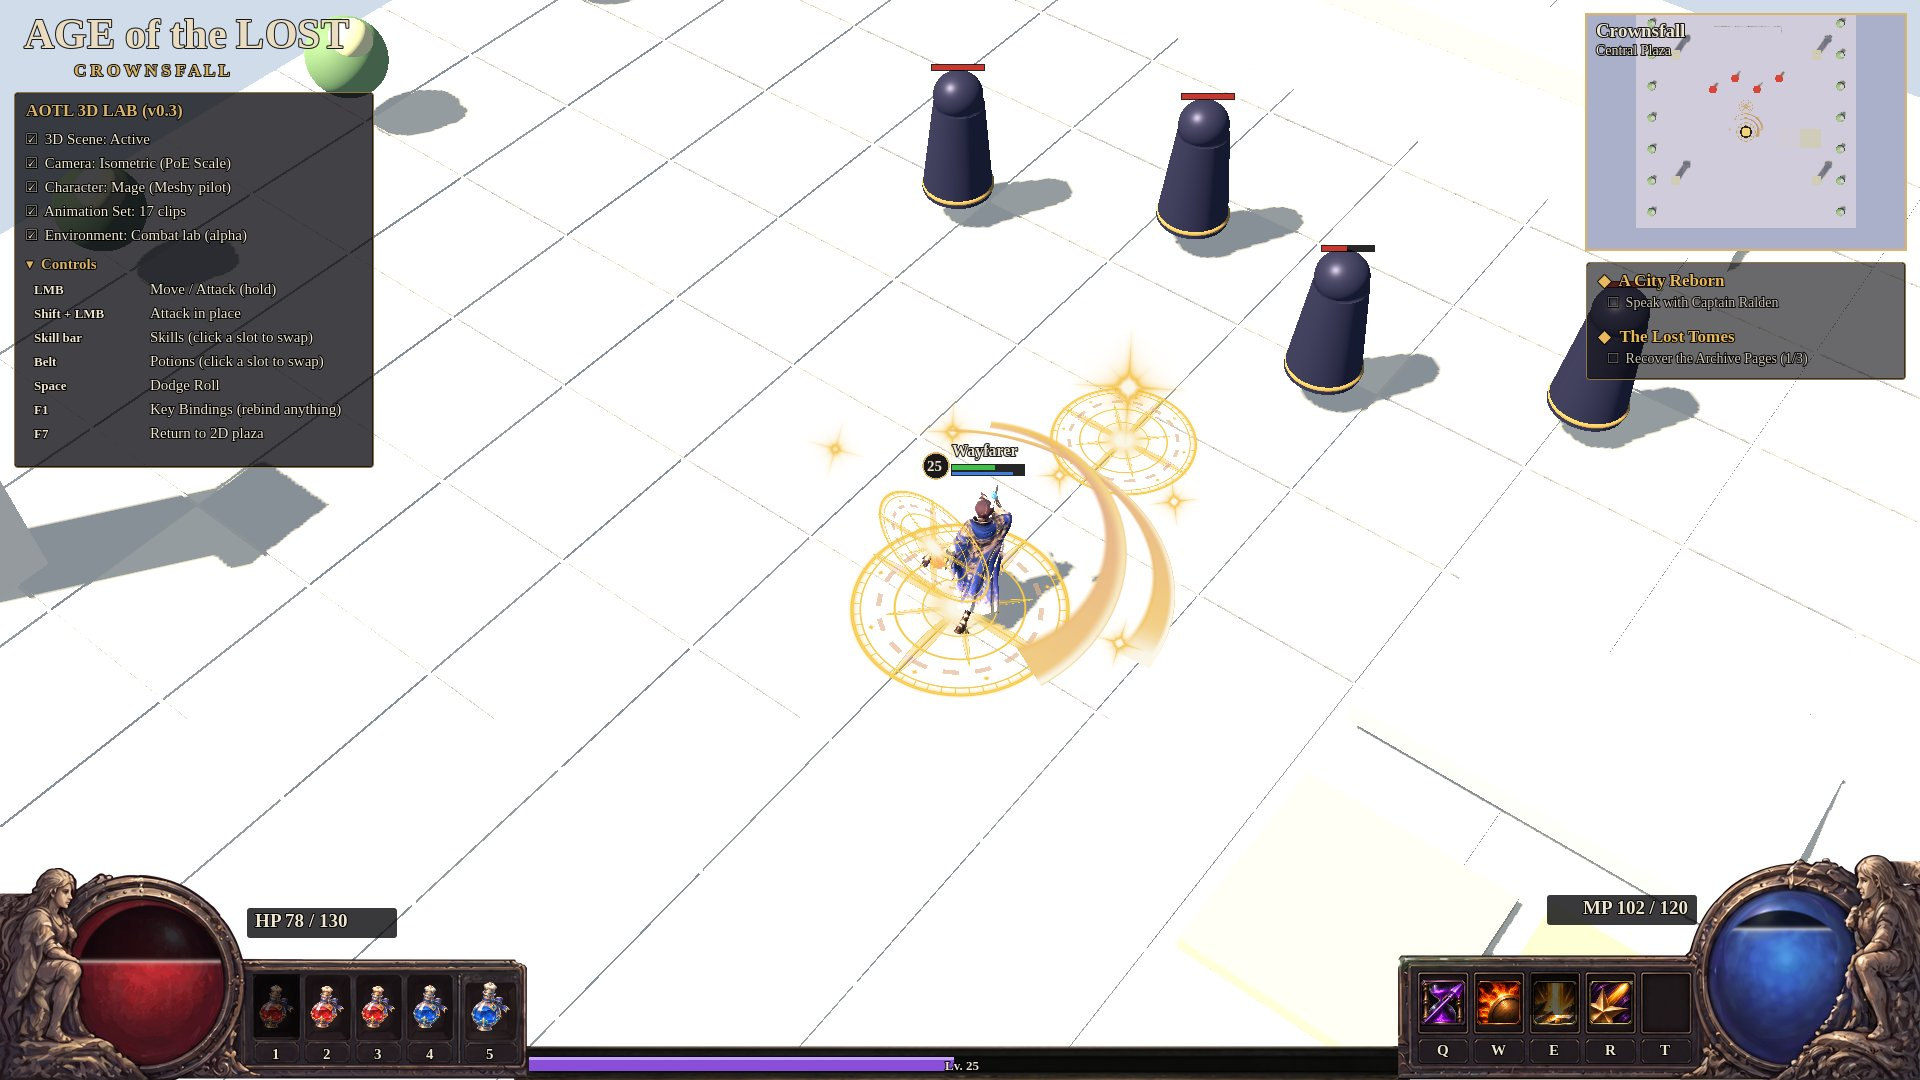
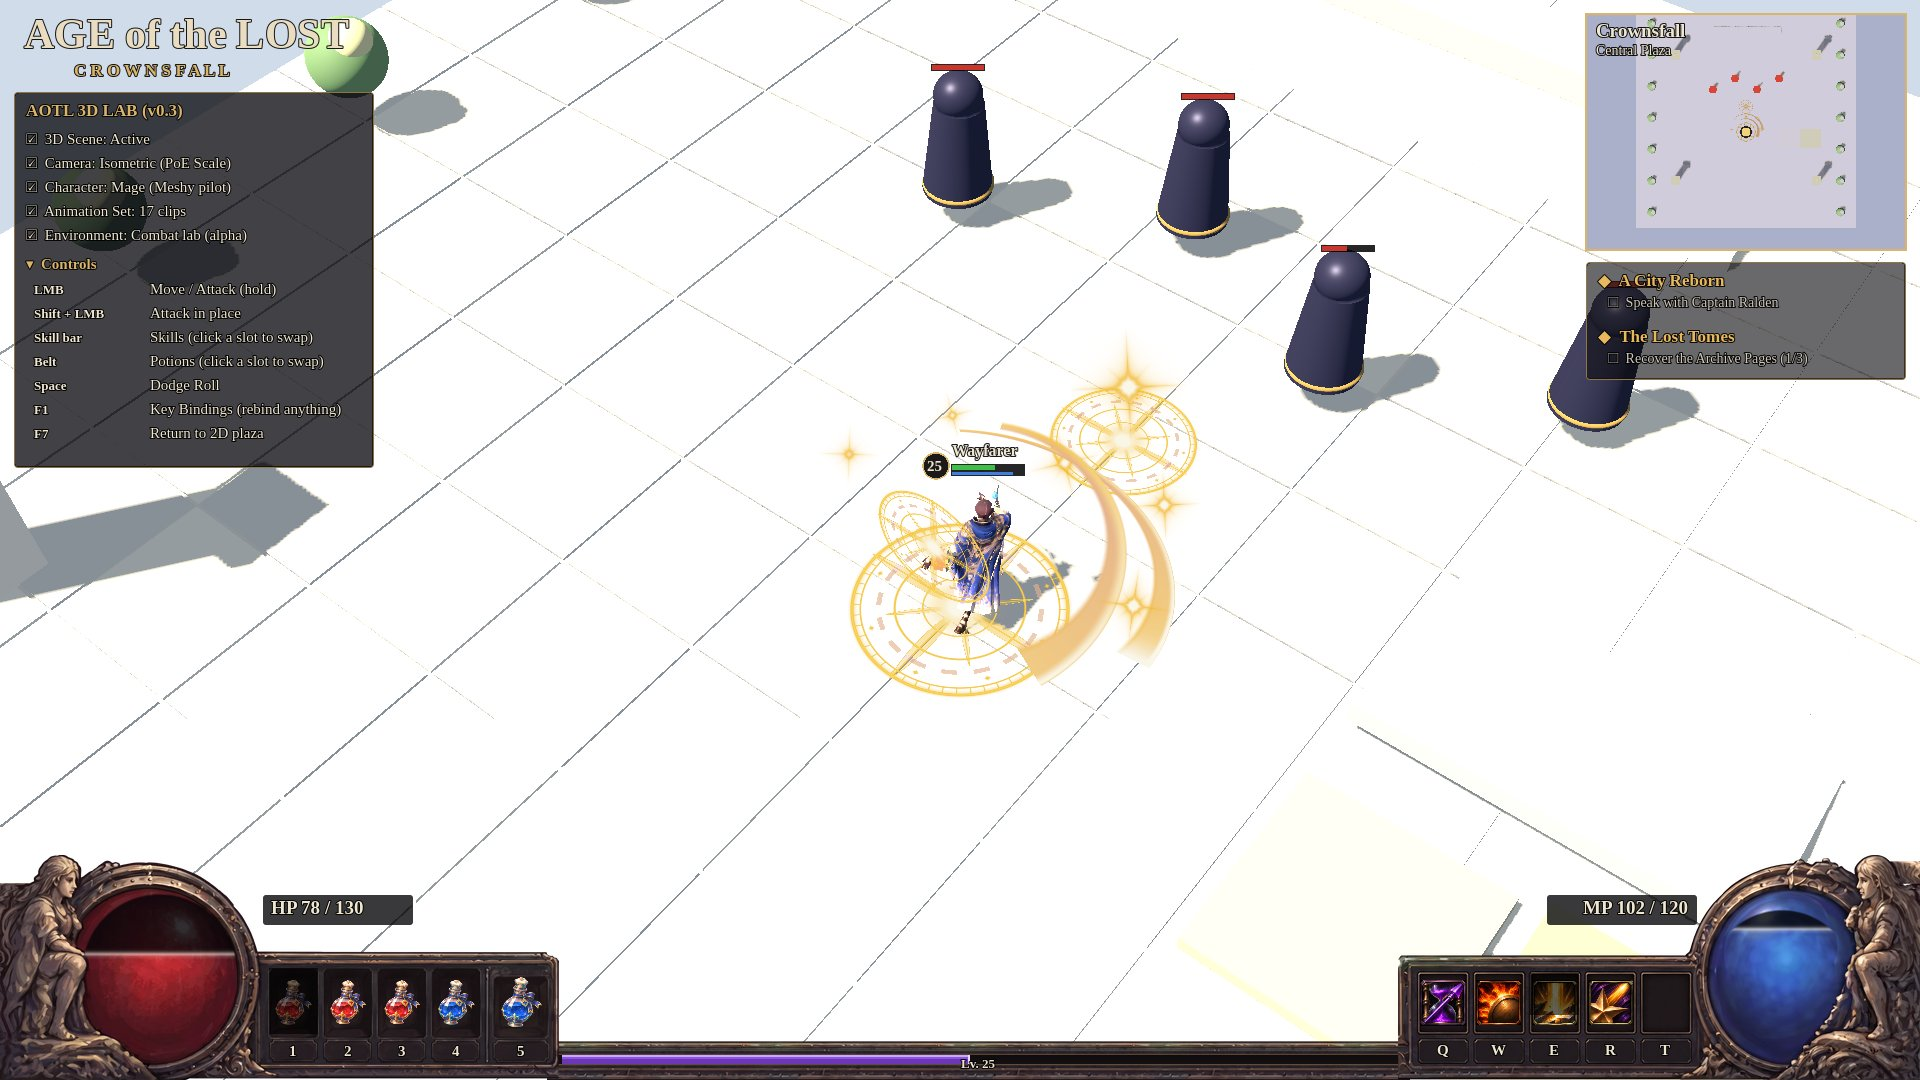
ARPG HUD: matched corner heights (own art each side), panel-material XP frame
Owner feedback: the HP cluster stood shorter than the MP cluster and the
XP bar lacked texture/framing. The left art (its own design, not a
mirror) is scaled so both corners stand 225 px at 1080p; the XP frame is
tiled from the skill panel's own bronze/stone borders around a bevelled
groove with a gradient fill. Green fringe removed. Tests: arpg_hud 73/73,
regression 994/994.

Claude-Session: https://claude.ai/code/session_01HXUneWBipxvB69FSMXEcEC

diff --git a/game/crownsfall_lootslice/tools/build_hud_extras.py b/game/crownsfall_lootslice/tools/build_hud_extras.py
@@ -1,0 +1,82 @@
+"""Post-process the keyed HUD redraw (run after key_hud_redraw.py) - free, local:
+
+1. Despill: remove the faint chroma-green fringe left on the right piece's edges.
+2. XP frame: a seamless, horizontally tileable strip built from the skill panel's own top and bottom bronze-and-stone
+   borders with a recessed groove between them, so the XP bar is framed in the same material as the panels.
+Updates hud_redraw.json in place.
+"""
+import json, sys
+import numpy as np
+import cv2
+from PIL import Image
+
+D = sys.argv[1]
+meta = json.load(open(f"{D}/hud_redraw.json"))
+R = meta["right"]
+
+def despill(a):
+    rgb = a[..., :3].astype(np.float32)
+    m = np.maximum(rgb[..., 0], rgb[..., 2])
+    rgb[..., 1] = np.minimum(rgb[..., 1], m * 1.04 + 2)
+    a[..., :3] = np.clip(rgb, 0, 255).astype(np.uint8)
+    return a
+
+def recolor_red(a, cx, cy, r):
+    """blue glass -> deep red glass inside the disc; low-saturation highlights and the statue stay as they are."""
+    h, w = a.shape[:2]
+    yy, xx = np.mgrid[0:h, 0:w]
+    inside = (xx - cx) ** 2 + (yy - cy) ** 2 <= (r * 1.04) ** 2
+    hsv = cv2.cvtColor(a[..., :3], cv2.COLOR_RGB2HSV).astype(np.float32)
+    blue = inside & (hsv[..., 0] > 88) & (hsv[..., 0] < 140) & (hsv[..., 1] > 55)
+    soft = cv2.GaussianBlur(blue.astype(np.float32), (0, 0), 1.2)
+    out = hsv.copy()
+    out[..., 0] = 178                                   # deep crimson
+    out[..., 1] = np.clip(hsv[..., 1] * 1.02, 0, 255)
+    out[..., 2] = np.clip(hsv[..., 2] * 0.86, 0, 255)
+    red = cv2.cvtColor(out.astype(np.uint8), cv2.COLOR_HSV2RGB).astype(np.float32)
+    rgb = a[..., :3].astype(np.float32)
+    a[..., :3] = np.clip(rgb * (1 - soft[..., None]) + red * soft[..., None], 0, 255).astype(np.uint8)
+    return a
+
+def rect_mirror(v, W):
+    return [round(W - v[0] - v[2], 2), v[1], v[2], v[3]]
+
+for side in ("left", "right"):
+    for suffix in ("", "@2x"):
+        a = np.array(Image.open(f"{D}/hud_{side}_hd{suffix}.png").convert("RGBA"))
+        Image.fromarray(despill(a)).save(f"{D}/hud_{side}_hd{suffix}.png")
+
+# ---- XP frame from the panel's borders (2x source rows, measured on hud_right_hd@2x.png) ----
+src = np.array(Image.open(f"{D}/hud_right_hd@2x.png").convert("RGBA")).astype(np.float32)
+x0, x1 = 150, 590                                  # the panel border's run between its corners (no globe, no wells)
+top = src[200:220, x0:x1]                          # outer rim + inner bronze line
+stone = src[226:232, x0:x1]                        # plain panel stone
+bot = src[422:446, x0:x1]                          # inner line + rim + bottom edge
+gw = x1 - x0
+groove_h = 22
+g = np.zeros((groove_h, gw, 4), np.float32)
+bronze = np.array([150, 112, 78, 255], np.float32)
+dark = np.array([20, 16, 18, 255], np.float32)
+for y in range(groove_h):
+    t = y / (groove_h - 1)
+    g[y] = dark * (0.75 + 0.35 * t)                # recessed: darker at the top (inner shadow)
+    g[y, :, 3] = 255
+g[0] = bronze * 0.85; g[0, :, 3] = 255             # thin bronze bevel lines, like the key plates
+g[1] = bronze * 0.45; g[1, :, 3] = 255
+g[-1] = bronze * 0.95; g[-1, :, 3] = 255
+g[-2] = bronze * 0.5; g[-2, :, 3] = 255
+tile = np.concatenate([top, stone, g, stone, bot], axis=0)
+# seamless: cross-fade the last 40 px into the first 40 px
+f = 50
+ramp = np.linspace(0, 1, f)[None, :, None]
+tile[:, :f] = tile[:, :f] * ramp + tile[:, -f:] * (1 - ramp)
+tile = tile[:, : gw - f]
+tile2 = np.clip(tile, 0, 255).astype(np.uint8)
+Image.fromarray(tile2).save(f"{D}/hud_xp_frame@2x.png")
+h2, w2 = tile2.shape[:2]
+Image.fromarray(tile2).resize((w2 // 2, h2 // 2), Image.LANCZOS).save(f"{D}/hud_xp_frame.png")
+gy = top.shape[0] + stone.shape[0]
+meta["xp_frame"] = {"file": "hud_xp_frame.png", "size": [w2 // 2, h2 // 2],
+                    "groove": [0, (gy + 2) / 2.0, w2 // 2, (groove_h - 4) / 2.0]}
+json.dump(meta, open(f"{D}/hud_redraw.json", "w"), indent=1)
+print("xp frame", meta["xp_frame"])

diff --git a/game/crownsfall_lootslice/tools/key_hud_redraw.py b/game/crownsfall_lootslice/tools/key_hud_redraw.py
@@ -41,7 +41,9 @@ def disc(rgba, hue_ok):
 PV = 1600 / 6336          # preview thumbnail scale used for the hand measurements
 DISC_1080 = 74.0
 LAYOUT = {   # preview px: disc (cx, cy, r), wells [x0,x1] with shared y, plates y
-    "left":  {"src": "a1_left_raw.png", "disc": (465, 345, 215), "wells": [(765, 900), (915, 1048), (1063, 1196), (1212, 1346), (1380, 1530)],
+    # the left art is composed a little shorter than the right; scale it so both corner pieces stand the same
+    # height on screen (statue, globe ring and panel line up) while each keeps its own artwork
+    "left":  {"src": "a1_left_raw.png", "disc": (465, 345, 215), "disc_1080": 74.0 * 225.0 / 212.0, "wells": [(765, 900), (915, 1048), (1063, 1196), (1212, 1346), (1380, 1530)],
               "well_y": (335, 525), "plate_y": (533, 588)},
     "right": {"src": "a2_right_raw.png", "disc": (1210, 385, 210), "wells": [(176, 318), (336, 476), (494, 634), (652, 792), (810, 950)],
               "well_y": (355, 527), "plate_y": (545, 610)},
@@ -52,7 +54,7 @@ meta = {"source": "Higgsfield nano_banana_2_1 redraw of the owner's HUD mockup (
 for name, L in LAYOUT.items():
     rgba, (ox, oy) = key(f"{SRC}/{L['src']}")
     H, W = rgba.shape[:2]
-    k = DISC_1080 / (L["disc"][2] / PV)
+    k = L.get("disc_1080", DISC_1080) / (L["disc"][2] / PV)
     al = rgba[..., 3]
     mid = int((L["well_y"][0] + L["well_y"][1]) / 2 / PV - oy)       # a row through the slot wells
     opaque = np.where(al[mid] > 0.5)[0]
@@ -88,7 +90,8 @@ for name, L in LAYOUT.items():
     for x0, x1 in L["wells"]:
         a, b = P(x0, L["well_y"][0]), P(x1, L["well_y"][1]); wl.append([a[0], a[1], round(b[0] - a[0], 2), round(b[1] - a[1], 2)])
         a, b = P(x0, L["plate_y"][0]), P(x1, L["plate_y"][1]); pl.append([a[0], a[1], round(b[0] - a[0], 2), round(b[1] - a[1], 2)])
-    meta[name] = {"file": f"hud_{name}_hd.png", "size": [tw, th], "disc": [c[0], c[1], DISC_1080, DISC_1080], "wells": wl, "plates": pl,
+    dr = L.get("disc_1080", DISC_1080)
+    meta[name] = {"file": f"hud_{name}_hd.png", "size": [tw, th], "disc": [c[0], c[1], round(dr, 2), round(dr, 2)], "wells": wl, "plates": pl,
                   "panel_inner_x": round(panel_edge * k, 2),
                   "panel_bottom_band": [round((H - 0.11 * H) * k, 2), round(H * k, 2)]}
     print(name, "scale %.4f" % k, (tw, th), "disc", meta[name]["disc"], "well0", wl[0])

diff --git a/game/crownsfall_lootslice/docs/ARPG_HUD_QA_2026-11-20.md b/game/crownsfall_lootslice/docs/ARPG_HUD_QA_2026-11-20.md
@@ -97,3 +97,12 @@ Not yet: the lab is still a white test floor, not the Crownsfall plaza of the mo
   the skill panel's inner edge, tucked 12 px under both frames and seated on the screen's bottom edge.
 - Outer statue edges mirrored outward so every row they occupy reaches the screen edge (no see-through sliver).
 - Tests: arpg_hud 72/72 (adds strip-tuck, fill-inside-groove, solid left/right edge columns).
+
+## Revision 8 (owner: left HP cluster shorter than the right; XP bar needs better texture and framing)
+- Each globe keeps its own artwork (owner: "the left and right orbs have their own artwork", as in PoE / Diablo; a
+  mirrored-left experiment was discarded unpublished). The left art is scaled so both corner pieces stand the same
+  225 px at 1080p: statues, rings and panels line up; globes 78.5 / 74 px.
+- XP bar frame (`tools/build_hud_extras.py`): tiled from the skill panel's own top and bottom bronze/stone borders
+  with a recessed bevelled groove between them, so the bar reads as the same material as the panels; gradient
+  purple fill with a highlight and a bright leading edge. Chroma-green fringe removed from both pieces.
+- Tests: arpg_hud 73/73 (adds equal corner height); regression 994/994.
